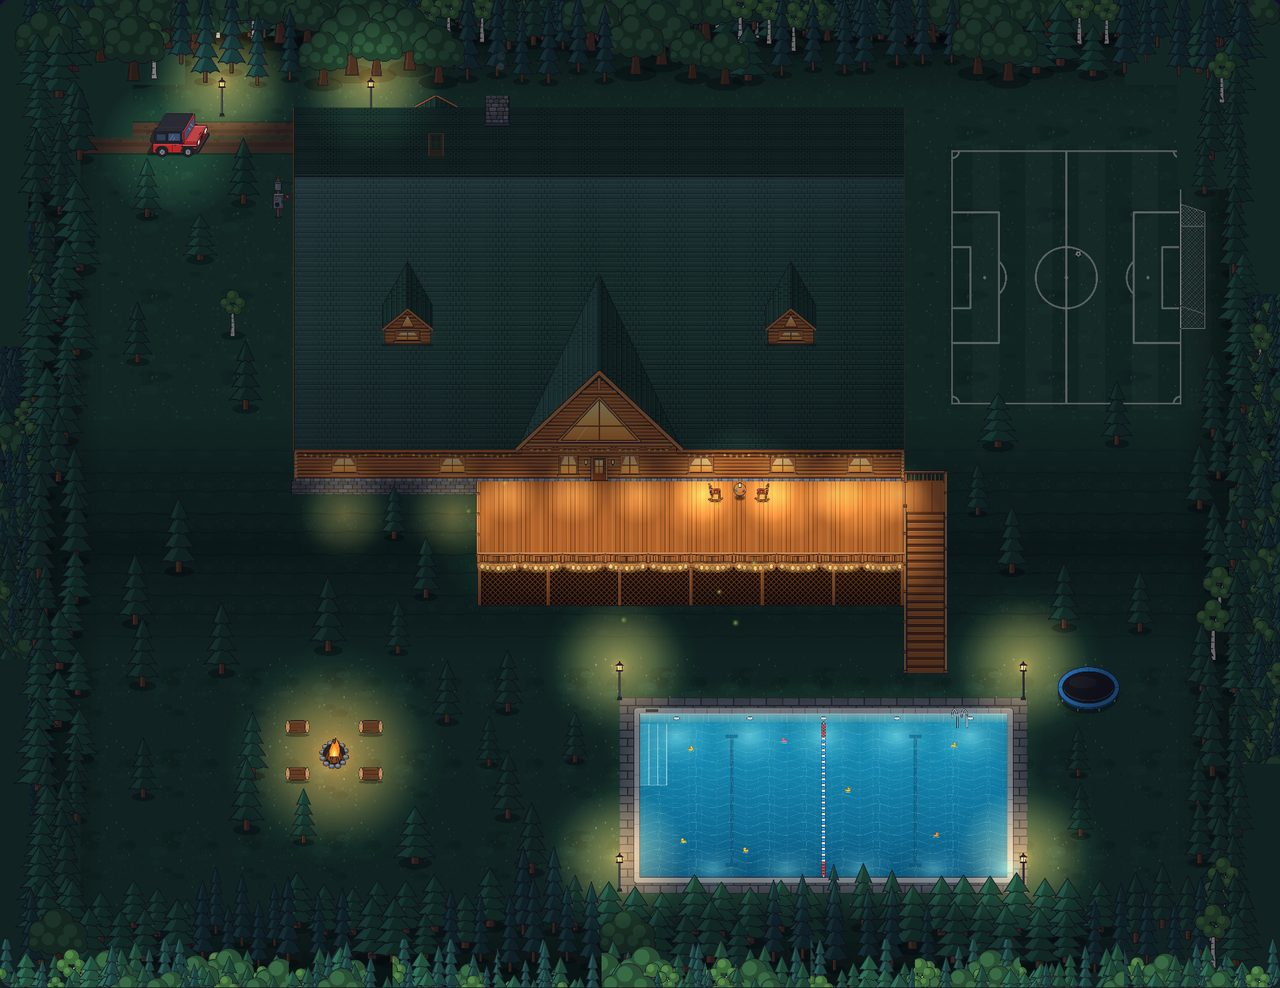
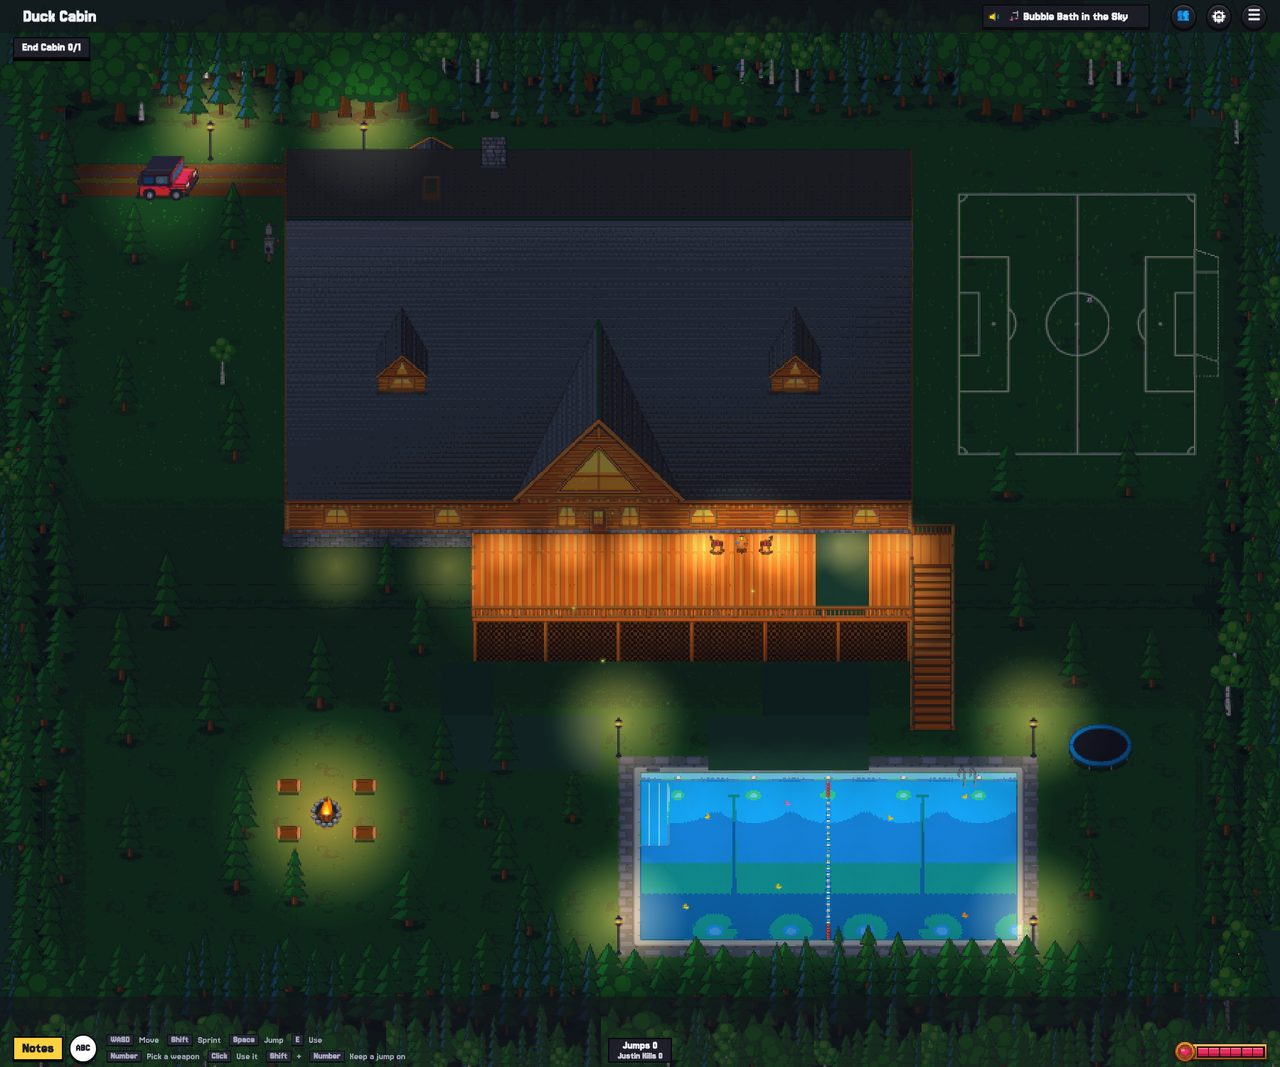
Duck Cabin's roof is slate grey, so it stands out from the grass
The roof's green shingles blended into the grass around the cabin (worst in the
zombie map vote's picture). The shingle colors are now one const (ROOF in
js/hangout/art.js), set to slate grey: red read as brown next to the logs.
tools/cabin-map.cjs works again (straight into Hangout, no votes) and now also
builds the zombie vote's picture; both cabin pictures are rebuilt.

Claude-Session: https://claude.ai/code/session_01LVyEYtT3Vqv3XudqvWLn7k

diff --git a/index.html b/index.html
@@ -29,7 +29,7 @@
       type="font/woff2"
       crossorigin
     />
-    <link rel="stylesheet" href="css/app.css?v=202611170630" />
+    <link rel="stylesheet" href="css/app.css?v=202611170705" />
   </head>
   <body>
     <!-- the hit flash: a see-through red over the duck (70 in 100, then lighter as it fades), css/app.css @keyframes hurt -->
@@ -65,7 +65,7 @@
         Agree or Disagree needs JavaScript turned on.
       </p></noscript
     >
-    <script type="importmap">{"imports":{"./js/account.js":"./js/account.js?v=202611170630","./js/armspeed.js":"./js/armspeed.js?v=202611170630","./js/art.js":"./js/art.js?v=202611170630","./js/bash.js":"./js/bash.js?v=202611170630","./js/beaks.js":"./js/beaks.js?v=202611170630","./js/boardjustin.js":"./js/boardjustin.js?v=202611170630","./js/bots.js":"./js/bots.js?v=202611170630","./js/brackets.js":"./js/brackets.js?v=202611170630","./js/card.js":"./js/card.js?v=202611170630","./js/chat.js":"./js/chat.js?v=202611170630","./js/clock.js":"./js/clock.js?v=202611170630","./js/collage.js":"./js/collage.js?v=202611170630","./js/color.js":"./js/color.js?v=202611170630","./js/court.js":"./js/court.js?v=202611170630","./js/customize.js":"./js/customize.js?v=202611170630","./js/datboi.js":"./js/datboi.js?v=202611170630","./js/democracy.js":"./js/democracy.js?v=202611170630","./js/dock.js":"./js/dock.js?v=202611170630","./js/duck.js":"./js/duck.js?v=202611170630","./js/duel.js":"./js/duel.js?v=202611170630","./js/dunce.js":"./js/dunce.js?v=202611170630","./js/duncerules.js":"./js/duncerules.js?v=202611170630","./js/euclid.js":"./js/euclid.js?v=202611170630","./js/eyes.js":"./js/eyes.js?v=202611170630","./js/faces.js":"./js/faces.js?v=202611170630","./js/feet.js":"./js/feet.js?v=202611170630","./js/flamer.js":"./js/flamer.js?v=202611170630","./js/format.js":"./js/format.js?v=202611170630","./js/friends.js":"./js/friends.js?v=202611170630","./js/front.js":"./js/front.js?v=202611170630","./js/fullscreen.js":"./js/fullscreen.js?v=202611170630","./js/fx.js":"./js/fx.js?v=202611170630","./js/fxmotion.js":"./js/fxmotion.js?v=202611170630","./js/game.js":"./js/game.js?v=202611170630","./js/gamesettings.js":"./js/gamesettings.js?v=202611170630","./js/gfx.js":"./js/gfx.js?v=202611170630","./js/grenade.js":"./js/grenade.js?v=202611170630","./js/hangout/activities.js":"./js/hangout/activities.js?v=202611170630","./js/hangout/art.js":"./js/hangout/art.js?v=202611170630","./js/hangout/beachball.js":"./js/hangout/beachball.js?v=202611170630","./js/hangout/blackjack.js":"./js/hangout/blackjack.js?v=202611170630","./js/hangout/book.js":"./js/hangout/book.js?v=202611170630","./js/hangout/cabinend.js":"./js/hangout/cabinend.js?v=202611170630","./js/hangout/cats.js":"./js/hangout/cats.js?v=202611170630","./js/hangout/chalk.js":"./js/hangout/chalk.js?v=202611170630","./js/hangout/characters.js":"./js/hangout/characters.js?v=202611170630","./js/hangout/death.js":"./js/hangout/death.js?v=202611170630","./js/hangout/doors.js":"./js/hangout/doors.js?v=202611170630","./js/hangout/dpground.js":"./js/hangout/dpground.js?v=202611170630","./js/hangout/falls.js":"./js/hangout/falls.js?v=202611170630","./js/hangout/fireflies.js":"./js/hangout/fireflies.js?v=202611170630","./js/hangout/flicker.js":"./js/hangout/flicker.js?v=202611170630","./js/hangout/ghosts.js":"./js/hangout/ghosts.js?v=202611170630","./js/hangout/justin.js":"./js/hangout/justin.js?v=202611170630","./js/hangout/lamp.js":"./js/hangout/lamp.js?v=202611170630","./js/hangout/layout.js":"./js/hangout/layout.js?v=202611170630","./js/hangout/npc.js":"./js/hangout/npc.js?v=202611170630","./js/hangout/npcart.js":"./js/hangout/npcart.js?v=202611170630","./js/hangout/piano.js":"./js/hangout/piano.js?v=202611170630","./js/hangout/pianokeys.js":"./js/hangout/pianokeys.js?v=202611170630","./js/hangout/poker.js":"./js/hangout/poker.js?v=202611170630","./js/hangout/pool.js":"./js/hangout/pool.js?v=202611170630","./js/hangout/power.js":"./js/hangout/power.js?v=202611170630","./js/hangout/registry.js":"./js/hangout/registry.js?v=202611170630","./js/hangout/rubberducks.js":"./js/hangout/rubberducks.js?v=202611170630","./js/hangout/rules.js":"./js/hangout/rules.js?v=202611170630","./js/hangout/seats.js":"./js/hangout/seats.js?v=202611170630","./js/hangout/shadowduck.js":"./js/hangout/shadowduck.js?v=202611170630","./js/hangout/shapes.js":"./js/hangout/shapes.js?v=202611170630","./js/hangout/soccer.js":"./js/hangout/soccer.js?v=202611170630","./js/hangout/sounds.js":"./js/hangout/sounds.js?v=202611170630","./js/hangout/stage.js":"./js/hangout/stage.js?v=202611170630","./js/hangout/stationart.js":"./js/hangout/stationart.js?v=202611170630","./js/hangout/stationmap.js":"./js/hangout/stationmap.js?v=202611170630","./js/hangout/trampoline.js":"./js/hangout/trampoline.js?v=202611170630","./js/hangout/tv.js":"./js/hangout/tv.js?v=202611170630","./js/hangout/water.js":"./js/hangout/water.js?v=202611170630","./js/hangout/world.js":"./js/hangout/world.js?v=202611170630","./js/hats.js":"./js/hats.js?v=202611170630","./js/helppages.js":"./js/helppages.js?v=202611170630","./js/hooks.js":"./js/hooks.js?v=202611170630","./js/hotbar.js":"./js/hotbar.js?v=202611170630","./js/hpmeter.js":"./js/hpmeter.js?v=202611170630","./js/jaimebomb.js":"./js/jaimebomb.js?v=202611170630","./js/jetart.js":"./js/jetart.js?v=202611170630","./js/jetpack.js":"./js/jetpack.js?v=202611170630","./js/jumps.js":"./js/jumps.js?v=202611170630","./js/keynav.js":"./js/keynav.js?v=202611170630","./js/l4dd.js":"./js/l4dd.js?v=202611170630","./js/l4ddangel.js":"./js/l4ddangel.js?v=202611170630","./js/l4ddangelui.js":"./js/l4ddangelui.js?v=202611170630","./js/l4ddart.js":"./js/l4ddart.js?v=202611170630","./js/l4ddbar.js":"./js/l4ddbar.js?v=202611170630","./js/l4ddbots.js":"./js/l4ddbots.js?v=202611170630","./js/l4ddcatalog.js":"./js/l4ddcatalog.js?v=202611170630","./js/l4dddrops.js":"./js/l4dddrops.js?v=202611170630","./js/l4ddguns.js":"./js/l4ddguns.js?v=202611170630","./js/l4ddmap.js":"./js/l4ddmap.js?v=202611170630","./js/l4ddmud.js":"./js/l4ddmud.js?v=202611170630","./js/l4ddpower.js":"./js/l4ddpower.js?v=202611170630","./js/l4ddpowerui.js":"./js/l4ddpowerui.js?v=202611170630","./js/l4ddrain.js":"./js/l4ddrain.js?v=202611170630","./js/l4ddrules.js":"./js/l4ddrules.js?v=202611170630","./js/l4ddsfx.js":"./js/l4ddsfx.js?v=202611170630","./js/loading.js":"./js/loading.js?v=202611170630","./js/lobby.js":"./js/lobby.js?v=202611170630","./js/lobbysettings.js":"./js/lobbysettings.js?v=202611170630","./js/looks.js":"./js/looks.js?v=202611170630","./js/looksrules.js":"./js/looksrules.js?v=202611170630","./js/main.js":"./js/main.js?v=202611170630","./js/manual.js":"./js/manual.js?v=202611170630","./js/maps.js":"./js/maps.js?v=202611170630","./js/mgj.js":"./js/mgj.js?v=202611170630","./js/mgjart.js":"./js/mgjart.js?v=202611170630","./js/mgjrules.js":"./js/mgjrules.js?v=202611170630","./js/modes.js":"./js/modes.js?v=202611170630","./js/music.js":"./js/music.js?v=202611170630","./js/musicbar.js":"./js/musicbar.js?v=202611170630","./js/name.js":"./js/name.js?v=202611170630","./js/net.js":"./js/net.js?v=202611170630","./js/notes.js":"./js/notes.js?v=202611170630","./js/npcs.js":"./js/npcs.js?v=202611170630","./js/nwk.js":"./js/nwk.js?v=202611170630","./js/online.js":"./js/online.js?v=202611170630","./js/outfits.js":"./js/outfits.js?v=202611170630","./js/perf.js":"./js/perf.js?v=202611170630","./js/phonepad.js":"./js/phonepad.js?v=202611170630","./js/pixel.js":"./js/pixel.js?v=202611170630","./js/pixelpalette.js":"./js/pixelpalette.js?v=202611170630","./js/players.js":"./js/players.js?v=202611170630","./js/playroom.js":"./js/playroom.js?v=202611170630","./js/pointer.js":"./js/pointer.js?v=202611170630","./js/powerart.js":"./js/powerart.js?v=202611170630","./js/pxdom.js":"./js/pxdom.js?v=202611170630","./js/pxtext.js":"./js/pxtext.js?v=202611170630","./js/quack.js":"./js/quack.js?v=202611170630","./js/quackrules.js":"./js/quackrules.js?v=202611170630","./js/report.js":"./js/report.js?v=202611170630","./js/rooms.js":"./js/rooms.js?v=202611170630","./js/router.js":"./js/router.js?v=202611170630","./js/rules.js":"./js/rules.js?v=202611170630","./js/secret.js":"./js/secret.js?v=202611170630","./js/settings.js":"./js/settings.js?v=202611170630","./js/sfxlist.js":"./js/sfxlist.js?v=202611170630","./js/shell.js":"./js/shell.js?v=202611170630","./js/sound.js":"./js/sound.js?v=202611170630","./js/specials.js":"./js/specials.js?v=202611170630","./js/splash.js":"./js/splash.js?v=202611170630","./js/stats.js":"./js/stats.js?v=202611170630","./js/store.js":"./js/store.js?v=202611170630","./js/story.js":"./js/story.js?v=202611170630","./js/styles.js":"./js/styles.js?v=202611170630","./js/textutils.js":"./js/textutils.js?v=202611170630","./js/touch.js":"./js/touch.js?v=202611170630","./js/trivia.js":"./js/trivia.js?v=202611170630","./js/triviabank.js":"./js/triviabank.js?v=202611170630","./js/triviarules.js":"./js/triviarules.js?v=202611170630","./js/ui.js":"./js/ui.js?v=202611170630","./js/unlocks.js":"./js/unlocks.js?v=202611170630","./js/updates.js":"./js/updates.js?v=202611170630","./js/vdd.js":"./js/vdd.js?v=202611170630","./js/vddrules.js":"./js/vddrules.js?v=202611170630","./js/vellum.js":"./js/vellum.js?v=202611170630","./js/vote.js":"./js/vote.js?v=202611170630","./js/who.js":"./js/who.js?v=202611170630","./js/wounds.js":"./js/wounds.js?v=202611170630"}}</script>
-    <script type="module" src="js/main.js?v=202611170630"></script>
+    <script type="importmap">{"imports":{"./js/account.js":"./js/account.js?v=202611170705","./js/armspeed.js":"./js/armspeed.js?v=202611170705","./js/art.js":"./js/art.js?v=202611170705","./js/bash.js":"./js/bash.js?v=202611170705","./js/beaks.js":"./js/beaks.js?v=202611170705","./js/boardjustin.js":"./js/boardjustin.js?v=202611170705","./js/bots.js":"./js/bots.js?v=202611170705","./js/brackets.js":"./js/brackets.js?v=202611170705","./js/card.js":"./js/card.js?v=202611170705","./js/chat.js":"./js/chat.js?v=202611170705","./js/clock.js":"./js/clock.js?v=202611170705","./js/collage.js":"./js/collage.js?v=202611170705","./js/color.js":"./js/color.js?v=202611170705","./js/court.js":"./js/court.js?v=202611170705","./js/customize.js":"./js/customize.js?v=202611170705","./js/datboi.js":"./js/datboi.js?v=202611170705","./js/democracy.js":"./js/democracy.js?v=202611170705","./js/dock.js":"./js/dock.js?v=202611170705","./js/duck.js":"./js/duck.js?v=202611170705","./js/duel.js":"./js/duel.js?v=202611170705","./js/dunce.js":"./js/dunce.js?v=202611170705","./js/duncerules.js":"./js/duncerules.js?v=202611170705","./js/euclid.js":"./js/euclid.js?v=202611170705","./js/eyes.js":"./js/eyes.js?v=202611170705","./js/faces.js":"./js/faces.js?v=202611170705","./js/feet.js":"./js/feet.js?v=202611170705","./js/flamer.js":"./js/flamer.js?v=202611170705","./js/format.js":"./js/format.js?v=202611170705","./js/friends.js":"./js/friends.js?v=202611170705","./js/front.js":"./js/front.js?v=202611170705","./js/fullscreen.js":"./js/fullscreen.js?v=202611170705","./js/fx.js":"./js/fx.js?v=202611170705","./js/fxmotion.js":"./js/fxmotion.js?v=202611170705","./js/game.js":"./js/game.js?v=202611170705","./js/gamesettings.js":"./js/gamesettings.js?v=202611170705","./js/gfx.js":"./js/gfx.js?v=202611170705","./js/grenade.js":"./js/grenade.js?v=202611170705","./js/hangout/activities.js":"./js/hangout/activities.js?v=202611170705","./js/hangout/art.js":"./js/hangout/art.js?v=202611170705","./js/hangout/beachball.js":"./js/hangout/beachball.js?v=202611170705","./js/hangout/blackjack.js":"./js/hangout/blackjack.js?v=202611170705","./js/hangout/book.js":"./js/hangout/book.js?v=202611170705","./js/hangout/cabinend.js":"./js/hangout/cabinend.js?v=202611170705","./js/hangout/cats.js":"./js/hangout/cats.js?v=202611170705","./js/hangout/chalk.js":"./js/hangout/chalk.js?v=202611170705","./js/hangout/characters.js":"./js/hangout/characters.js?v=202611170705","./js/hangout/death.js":"./js/hangout/death.js?v=202611170705","./js/hangout/doors.js":"./js/hangout/doors.js?v=202611170705","./js/hangout/dpground.js":"./js/hangout/dpground.js?v=202611170705","./js/hangout/falls.js":"./js/hangout/falls.js?v=202611170705","./js/hangout/fireflies.js":"./js/hangout/fireflies.js?v=202611170705","./js/hangout/flicker.js":"./js/hangout/flicker.js?v=202611170705","./js/hangout/ghosts.js":"./js/hangout/ghosts.js?v=202611170705","./js/hangout/justin.js":"./js/hangout/justin.js?v=202611170705","./js/hangout/lamp.js":"./js/hangout/lamp.js?v=202611170705","./js/hangout/layout.js":"./js/hangout/layout.js?v=202611170705","./js/hangout/npc.js":"./js/hangout/npc.js?v=202611170705","./js/hangout/npcart.js":"./js/hangout/npcart.js?v=202611170705","./js/hangout/piano.js":"./js/hangout/piano.js?v=202611170705","./js/hangout/pianokeys.js":"./js/hangout/pianokeys.js?v=202611170705","./js/hangout/poker.js":"./js/hangout/poker.js?v=202611170705","./js/hangout/pool.js":"./js/hangout/pool.js?v=202611170705","./js/hangout/power.js":"./js/hangout/power.js?v=202611170705","./js/hangout/registry.js":"./js/hangout/registry.js?v=202611170705","./js/hangout/rubberducks.js":"./js/hangout/rubberducks.js?v=202611170705","./js/hangout/rules.js":"./js/hangout/rules.js?v=202611170705","./js/hangout/seats.js":"./js/hangout/seats.js?v=202611170705","./js/hangout/shadowduck.js":"./js/hangout/shadowduck.js?v=202611170705","./js/hangout/shapes.js":"./js/hangout/shapes.js?v=202611170705","./js/hangout/soccer.js":"./js/hangout/soccer.js?v=202611170705","./js/hangout/sounds.js":"./js/hangout/sounds.js?v=202611170705","./js/hangout/stage.js":"./js/hangout/stage.js?v=202611170705","./js/hangout/stationart.js":"./js/hangout/stationart.js?v=202611170705","./js/hangout/stationmap.js":"./js/hangout/stationmap.js?v=202611170705","./js/hangout/trampoline.js":"./js/hangout/trampoline.js?v=202611170705","./js/hangout/tv.js":"./js/hangout/tv.js?v=202611170705","./js/hangout/water.js":"./js/hangout/water.js?v=202611170705","./js/hangout/world.js":"./js/hangout/world.js?v=202611170705","./js/hats.js":"./js/hats.js?v=202611170705","./js/helppages.js":"./js/helppages.js?v=202611170705","./js/hooks.js":"./js/hooks.js?v=202611170705","./js/hotbar.js":"./js/hotbar.js?v=202611170705","./js/hpmeter.js":"./js/hpmeter.js?v=202611170705","./js/jaimebomb.js":"./js/jaimebomb.js?v=202611170705","./js/jetart.js":"./js/jetart.js?v=202611170705","./js/jetpack.js":"./js/jetpack.js?v=202611170705","./js/jumps.js":"./js/jumps.js?v=202611170705","./js/keynav.js":"./js/keynav.js?v=202611170705","./js/l4dd.js":"./js/l4dd.js?v=202611170705","./js/l4ddangel.js":"./js/l4ddangel.js?v=202611170705","./js/l4ddangelui.js":"./js/l4ddangelui.js?v=202611170705","./js/l4ddart.js":"./js/l4ddart.js?v=202611170705","./js/l4ddbar.js":"./js/l4ddbar.js?v=202611170705","./js/l4ddbots.js":"./js/l4ddbots.js?v=202611170705","./js/l4ddcatalog.js":"./js/l4ddcatalog.js?v=202611170705","./js/l4dddrops.js":"./js/l4dddrops.js?v=202611170705","./js/l4ddguns.js":"./js/l4ddguns.js?v=202611170705","./js/l4ddmap.js":"./js/l4ddmap.js?v=202611170705","./js/l4ddmud.js":"./js/l4ddmud.js?v=202611170705","./js/l4ddpower.js":"./js/l4ddpower.js?v=202611170705","./js/l4ddpowerui.js":"./js/l4ddpowerui.js?v=202611170705","./js/l4ddrain.js":"./js/l4ddrain.js?v=202611170705","./js/l4ddrules.js":"./js/l4ddrules.js?v=202611170705","./js/l4ddsfx.js":"./js/l4ddsfx.js?v=202611170705","./js/loading.js":"./js/loading.js?v=202611170705","./js/lobby.js":"./js/lobby.js?v=202611170705","./js/lobbysettings.js":"./js/lobbysettings.js?v=202611170705","./js/looks.js":"./js/looks.js?v=202611170705","./js/looksrules.js":"./js/looksrules.js?v=202611170705","./js/main.js":"./js/main.js?v=202611170705","./js/manual.js":"./js/manual.js?v=202611170705","./js/maps.js":"./js/maps.js?v=202611170705","./js/mgj.js":"./js/mgj.js?v=202611170705","./js/mgjart.js":"./js/mgjart.js?v=202611170705","./js/mgjrules.js":"./js/mgjrules.js?v=202611170705","./js/modes.js":"./js/modes.js?v=202611170705","./js/music.js":"./js/music.js?v=202611170705","./js/musicbar.js":"./js/musicbar.js?v=202611170705","./js/name.js":"./js/name.js?v=202611170705","./js/net.js":"./js/net.js?v=202611170705","./js/notes.js":"./js/notes.js?v=202611170705","./js/npcs.js":"./js/npcs.js?v=202611170705","./js/nwk.js":"./js/nwk.js?v=202611170705","./js/online.js":"./js/online.js?v=202611170705","./js/outfits.js":"./js/outfits.js?v=202611170705","./js/perf.js":"./js/perf.js?v=202611170705","./js/phonepad.js":"./js/phonepad.js?v=202611170705","./js/pixel.js":"./js/pixel.js?v=202611170705","./js/pixelpalette.js":"./js/pixelpalette.js?v=202611170705","./js/players.js":"./js/players.js?v=202611170705","./js/playroom.js":"./js/playroom.js?v=202611170705","./js/pointer.js":"./js/pointer.js?v=202611170705","./js/powerart.js":"./js/powerart.js?v=202611170705","./js/pxdom.js":"./js/pxdom.js?v=202611170705","./js/pxtext.js":"./js/pxtext.js?v=202611170705","./js/quack.js":"./js/quack.js?v=202611170705","./js/quackrules.js":"./js/quackrules.js?v=202611170705","./js/report.js":"./js/report.js?v=202611170705","./js/rooms.js":"./js/rooms.js?v=202611170705","./js/router.js":"./js/router.js?v=202611170705","./js/rules.js":"./js/rules.js?v=202611170705","./js/secret.js":"./js/secret.js?v=202611170705","./js/settings.js":"./js/settings.js?v=202611170705","./js/sfxlist.js":"./js/sfxlist.js?v=202611170705","./js/shell.js":"./js/shell.js?v=202611170705","./js/sound.js":"./js/sound.js?v=202611170705","./js/specials.js":"./js/specials.js?v=202611170705","./js/splash.js":"./js/splash.js?v=202611170705","./js/stats.js":"./js/stats.js?v=202611170705","./js/store.js":"./js/store.js?v=202611170705","./js/story.js":"./js/story.js?v=202611170705","./js/styles.js":"./js/styles.js?v=202611170705","./js/textutils.js":"./js/textutils.js?v=202611170705","./js/touch.js":"./js/touch.js?v=202611170705","./js/trivia.js":"./js/trivia.js?v=202611170705","./js/triviabank.js":"./js/triviabank.js?v=202611170705","./js/triviarules.js":"./js/triviarules.js?v=202611170705","./js/ui.js":"./js/ui.js?v=202611170705","./js/unlocks.js":"./js/unlocks.js?v=202611170705","./js/updates.js":"./js/updates.js?v=202611170705","./js/vdd.js":"./js/vdd.js?v=202611170705","./js/vddrules.js":"./js/vddrules.js?v=202611170705","./js/vellum.js":"./js/vellum.js?v=202611170705","./js/vote.js":"./js/vote.js?v=202611170705","./js/who.js":"./js/who.js?v=202611170705","./js/wounds.js":"./js/wounds.js?v=202611170705"}}</script>
+    <script type="module" src="js/main.js?v=202611170705"></script>
   </body>
 </html>

diff --git a/js/hangout/art.js b/js/hangout/art.js
@@ -60,8 +60,11 @@ const glassDef = (id) =>
 /* round logs in rows R high, the rows lined up so one ends at y0 */
 const logDef = (id, y0 = 0, r = 17) =>
   F`<pattern id="${id}" width="240" height="${r}" patternUnits="userSpaceOnUse" y="${y0}"><rect width="240" height="${r}" fill="#a65a2a"/><rect y="${r * 0.12}" width="240" height="${r * 0.32}" fill="#d98d4e" opacity=".6"/><rect y="${r * 0.7}" width="240" height="${r * 0.3}" fill="#5e2a10" opacity=".5"/><path d="M0 ${r - 0.7}H240" stroke="#3a1906" stroke-width="1.5"/><path d="M30 ${r * 0.55}h34M122 ${r * 0.45}h22M182 ${r * 0.6}h40" stroke="#7a3a16" stroke-width="1" opacity=".6"/></pattern>`;
+/* the cabin's shingles: their color, a lighter band on each row and the dark lines between them. Slate grey, not green:
+   a green roof blended into the grass around it (the owner, Nov 17), and a red one into the logs */
+export const ROOF = { base: "#454c5c", hi: "#8a93a6", line: "#1d2029" };
 const shingleDef = (id, sy = 1, rot = 0) =>
-  F`<pattern id="${id}" width="56" height="48" patternUnits="userSpaceOnUse"${sy !== 1 || rot ? F` patternTransform="${rot ? `rotate(${rot})` : ""}${sy !== 1 ? ` scale(1 ${sy})` : ""}"` : ""}><rect width="56" height="48" fill="#2b5747"/><rect width="56" height="7" fill="#4f866d" opacity=".35"/><rect y="24" width="56" height="7" fill="#4f866d" opacity=".35"/><path d="M0 23H56M0 47H56" stroke="#14302a" stroke-width="2.6"/><path d="M14 0V23M42 0V23M0 24V47M28 24V47M56 24V47" stroke="#14302a" stroke-width="1.8"/></pattern>`;
+  F`<pattern id="${id}" width="56" height="48" patternUnits="userSpaceOnUse"${sy !== 1 || rot ? F` patternTransform="${rot ? `rotate(${rot})` : ""}${sy !== 1 ? ` scale(1 ${sy})` : ""}"` : ""}><rect width="56" height="48" fill="${ROOF.base}"/><rect width="56" height="7" fill="${ROOF.hi}" opacity=".35"/><rect y="24" width="56" height="7" fill="${ROOF.hi}" opacity=".35"/><path d="M0 23H56M0 47H56" stroke="${ROOF.line}" stroke-width="2.6"/><path d="M14 0V23M42 0V23M0 24V47M28 24V47M56 24V47" stroke="${ROOF.line}" stroke-width="1.8"/></pattern>`;
 const stoneStripDef = (id, hh = 16, y0 = 0) =>
   F`<pattern id="${id}" width="100" height="${hh}" patternUnits="userSpaceOnUse" y="${y0}"><rect width="100" height="${hh}" fill="#3a3c44"/><rect x="1.5" y="1.5" width="28" height="${hh - 3}" rx="4" fill="#80858f"/><rect x="32" y="1.5" width="22" height="${hh - 3}" rx="4" fill="#6d727c"/><rect x="56" y="1.5" width="26" height="${hh - 3}" rx="4" fill="#8f8a82"/><rect x="84" y="1.5" width="14.5" height="${hh - 3}" rx="4" fill="#757079"/></pattern>`;
 /* hand-laid stones filling a box */
@@ -738,7 +741,7 @@ export const CHIMNEY = { d0: 12, d1: 102, rise: 150 };
 export const chimneyTop = (wallH, roofH = 520, d = 1600) =>
   wallH + roofH * Math.min(1, CHIMNEY.d1 / (d / 2)) + CHIMNEY.rise;
 /* ---------- the cabin, outside ----------
-   Round orange-brown logs, a steep dark green shingle roof whose ridge runs east-west, a big A-frame gable over the back
+   Round orange-brown logs, a steep slate grey shingle roof whose ridge runs east-west, a big A-frame gable over the back
    door (the triangle window) facing the deck, a stone chimney, glowing windows, string lights along the eave, and a
    little porch roof over the front door on the north side (the door itself faces away). x positions are from the
    cabin's west wall. Box: w × (d + 290); its bottom is the south wall's foot (foot: y = h), the footprint's north
